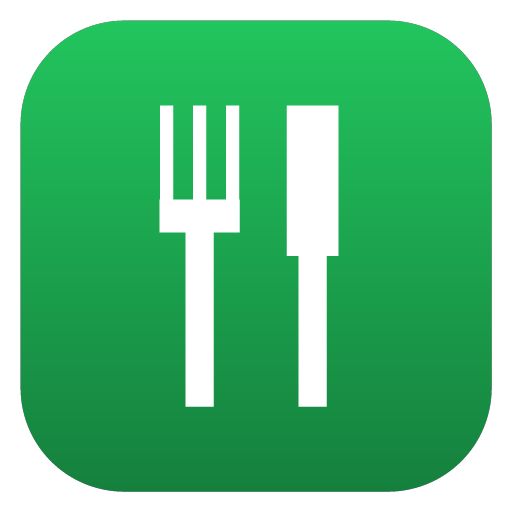
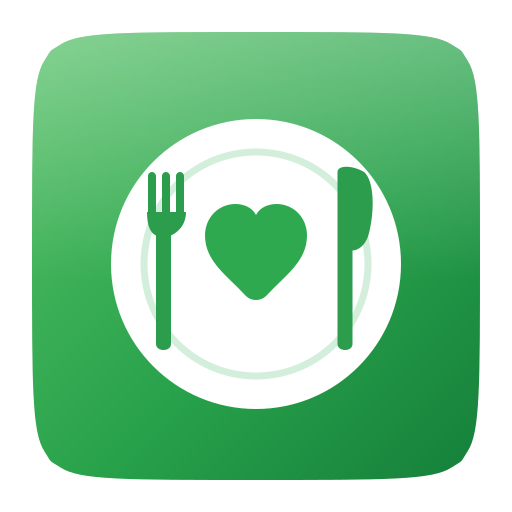
feat(pwa): adopte le jeu d'icônes fourni (assiette + cœur)
Remplace les icônes générées par le set de design fourni (assiette + cœur
sur dégradé vert) :

- pwa-192/512 + maskable 512 (ic_launcher_playstore), apple-touch-icon 180
- favicons navigateur : .svg, .ico, 16, 32 ; master vectoriel icon-master.svg
- theme_color aligné sur la marque : #28a24b
- supprime le générateur maison scripts/generate-pwa-icons.mjs (obsolète)
- met à jour le test d'assets, le README et le change OpenSpec

Refs: add-pwa-support

diff --git a/nuxt.config.ts b/nuxt.config.ts
@@ -71,7 +71,7 @@ export default defineNuxtConfig({
           content:
             "Gérez l'inventaire, les recettes, les menus et la liste de courses de votre foyer.",
         },
-        { name: 'theme-color', content: '#16a34a' },
+        { name: 'theme-color', content: '#28a24b' },
         { name: 'apple-mobile-web-app-capable', content: 'yes' },
         { name: 'mobile-web-app-capable', content: 'yes' },
         {
@@ -81,7 +81,20 @@ export default defineNuxtConfig({
         { name: 'apple-mobile-web-app-title', content: 'Meal Manager' },
       ],
       link: [
+        { rel: 'icon', href: '/favicon.ico', sizes: 'any' },
         { rel: 'icon', href: '/favicon.svg', type: 'image/svg+xml' },
+        {
+          rel: 'icon',
+          href: '/favicon-32.png',
+          type: 'image/png',
+          sizes: '32x32',
+        },
+        {
+          rel: 'icon',
+          href: '/favicon-16.png',
+          type: 'image/png',
+          sizes: '16x16',
+        },
         {
           rel: 'apple-touch-icon',
           href: '/apple-touch-icon-180x180.png',
@@ -104,7 +117,7 @@ export default defineNuxtConfig({
         "Gérez l'inventaire, les recettes, les menus et la liste de courses de votre foyer.",
       lang: 'fr-FR',
       dir: 'ltr',
-      theme_color: '#16a34a',
+      theme_color: '#28a24b',
       background_color: '#ffffff',
       display: 'standalone',
       orientation: 'portrait',
@@ -112,7 +125,6 @@ export default defineNuxtConfig({
       scope: '/',
       categories: ['food', 'lifestyle', 'productivity'],
       icons: [
-        { src: 'pwa-64x64.png', sizes: '64x64', type: 'image/png' },
         { src: 'pwa-192x192.png', sizes: '192x192', type: 'image/png' },
         { src: 'pwa-512x512.png', sizes: '512x512', type: 'image/png' },
         {

diff --git a/tests/integration/http/pwa-assets.test.ts b/tests/integration/http/pwa-assets.test.ts
@@ -17,13 +17,14 @@ function readPng(file: string): { width: number; height: number } {
 
 describe('PWA — jeu d’icônes installable', () => {
   // (fichier, taille attendue) — doit rester aligné avec `pwa.manifest.icons`
-  // dans nuxt.config.ts et `app.head` (apple-touch-icon).
+  // dans nuxt.config.ts et `app.head` (apple-touch-icon + favicons).
   const icons: Array<[string, number]> = [
-    ['pwa-64x64.png', 64],
     ['pwa-192x192.png', 192],
     ['pwa-512x512.png', 512],
     ['maskable-icon-512x512.png', 512],
     ['apple-touch-icon-180x180.png', 180],
+    ['favicon-32.png', 32],
+    ['favicon-16.png', 16],
   ]
 
   it.each(icons)('%s est un PNG carré valide aux bonnes dimensions', (file, size) => {
@@ -37,6 +38,10 @@ describe('PWA — jeu d’icônes installable', () => {
     const svg = readFileSync(resolve(publicDir, 'favicon.svg'), 'utf8')
     expect(svg).toMatch(/<svg[\s>]/)
     expect(svg).toMatch(/viewBox/)
+  })
+
+  it('fournit un favicon.ico (navigateurs legacy)', () => {
+    expect(existsSync(resolve(publicDir, 'favicon.ico'))).toBe(true)
   })
 
   it('expose une icône maskable 512×512 (masquage adaptatif Android)', () => {

diff --git a/openspec/changes/add-pwa-support/proposal.md b/openspec/changes/add-pwa-support/proposal.md
@@ -29,20 +29,21 @@ réseau au niveau navigation.
 ### 2. Web App Manifest
 
 Manifest généré : `name`, `short_name`, `description`, `lang: fr-FR`,
-`display: standalone`, `theme_color: #16a34a`, `background_color: #ffffff`,
-`start_url: /`, `scope: /`, et le jeu d'icônes (64/192/512 + maskable 512).
+`display: standalone`, `theme_color: #28a24b`, `background_color: #ffffff`,
+`start_url: /`, `scope: /`, et le jeu d'icônes (192/512 + maskable 512).
 
 ### 3. Jeu d'icônes + favicon
 
-Icônes PNG (fourchette + couteau, fond vert dégradé) générées **sans dépendance
-externe** par `scripts/generate-pwa-icons.mjs` (encodeur PNG pur Node — l'env de
-build n'a ni sharp ni imagemagick). Plus un `favicon.svg` vectoriel assorti et un
-`apple-touch-icon` 180×180.
+Jeu d'icônes fourni (asset géré) : assiette + cœur sur dégradé vert. Décliné en
+`pwa-192x192.png`, `pwa-512x512.png`, `maskable-icon-512x512.png`,
+`apple-touch-icon-180x180.png`, `favicon.svg`, `favicon.ico`, `favicon-16.png`,
+`favicon-32.png`. Master vectoriel conservé : `public/icon-master.svg`.
 
 ### 4. Meta head + injection du manifest
 
-Ajout dans `app.head` des metas `theme-color`, `description`, et des metas/lien
-Apple (`apple-touch-icon`, `apple-mobile-web-app-*`). Le lien
+Ajout dans `app.head` des metas `theme-color` (`#28a24b`), `description`, des
+liens favicon (`.ico`, `.svg`, 16/32) et des metas/lien Apple
+(`apple-touch-icon`, `apple-mobile-web-app-*`). Le lien
 `<link rel="manifest">` est injecté par le composant `<VitePwaManifest />` monté
 dans `app.vue` : en SPA le module retire tout lien manifest statique du head pour
 le gérer lui-même (évite les doublons).
@@ -79,9 +80,9 @@ fonctionnement déconnecté.
 ## Impact
 
 **Code créé :**
-- `scripts/generate-pwa-icons.mjs` (générateur d'icônes).
-- `public/pwa-64x64.png`, `pwa-192x192.png`, `pwa-512x512.png`,
-  `maskable-icon-512x512.png`, `apple-touch-icon-180x180.png`, `favicon.svg`.
+- Icônes `public/` : `pwa-192x192.png`, `pwa-512x512.png`,
+  `maskable-icon-512x512.png`, `apple-touch-icon-180x180.png`, `favicon.svg`,
+  `favicon.ico`, `favicon-16.png`, `favicon-32.png`, `icon-master.svg`.
 - `app/components/PwaPrompt.vue`.
 - `tests/integration/http/pwa-assets.test.ts`.
 

diff --git a/openspec/changes/add-pwa-support/design.md b/openspec/changes/add-pwa-support/design.md
@@ -49,22 +49,21 @@ que les navigateurs prennent en compte pour les critères d'installation. Les
 metas `theme-color` / Apple, elles, restent dans `app.head` (présentes dès le
 shell) car le module n'y touche pas.
 
-### D5 — Génération des icônes sans dépendance
+### D5 — Icônes : asset fourni plutôt que génération au build
 
-L'environnement de build n'a ni `sharp`, ni ImageMagick, ni `rsvg`. Plutôt que
-d'ajouter `@vite-pwa/assets-generator` (et ses dépendances natives),
-`scripts/generate-pwa-icons.mjs` encode des PNG RGBA en **pur Node** (`zlib` +
-CRC32) et dessine l'icône (fond vert dégradé + fourchette/couteau blancs) avec un
-supersampling 4× pour des bords lisses. Les PNG sont commités dans `public/` (pas
-de génération au build) ; le script reste rejouable pour régénérer/retoucher.
-L'icône **maskable** est rendue pleine (pas de coins arrondis, contenu dans la
-safe-zone ~80 %) pour le masquage Android adaptatif.
+Le jeu d'icônes (assiette + cœur sur dégradé vert) est un **asset de design
+fourni**, commité dans `public/` ; pas de génération au build (l'env n'a de toute
+façon ni `sharp`, ni ImageMagick, ni `rsvg`). Le master vectoriel
+`public/icon-master.svg` (identique à `favicon.svg`) est conservé pour régénérer
+les déclinaisons. L'icône **maskable** réutilise le rendu plein 512×512
+(`ic_launcher_playstore` du jeu fourni) : le contenu (assiette) tient dans la
+safe-zone, OK pour le masquage Android adaptatif.
 
-### D6 — `theme_color` vert `#16a34a`
+### D6 — `theme_color` vert `#28a24b`
 
-Aligné sur la couleur primaire par défaut de Nuxt UI (gamme `green`) utilisée
-dans l'app. Le `background_color` du splash est blanc `#ffffff` (fond clair de
-l'app).
+Repris du stop médian du dégradé de l'icône fournie (`#5BC46A → #28A24B →
+#127A38`), pour que la barre de statut / splash s'accordent à la marque. Le
+`background_color` du splash est blanc `#ffffff` (fond clair de l'app).
 
 ## Risques / limites
 

diff --git a/openspec/changes/add-pwa-support/tasks.md b/openspec/changes/add-pwa-support/tasks.md
@@ -9,11 +9,11 @@ Checklist d'implémentation du change `add-pwa-support`. Aucun code domaine touc
 - [x] 1.1 Ajouter `@vite-pwa/nuxt` en devDependency (`pnpm add -D`).
 - [x] 1.2 Enregistrer le module dans `nuxt.config.ts` (`modules`).
 
-## 2. Icônes
+## 2. Icônes (asset fourni)
 
-- [x] 2.1 Créer `scripts/generate-pwa-icons.mjs` (encodeur PNG pur Node, supersampling 4×).
-- [x] 2.2 Générer `public/pwa-64x64.png`, `pwa-192x192.png`, `pwa-512x512.png`, `maskable-icon-512x512.png` (safe-zone), `apple-touch-icon-180x180.png`.
-- [x] 2.3 Créer `public/favicon.svg` vectoriel assorti.
+- [x] 2.1 Installer le jeu d'icônes fourni dans `public/` : `pwa-192x192.png`, `pwa-512x512.png`, `maskable-icon-512x512.png`, `apple-touch-icon-180x180.png`.
+- [x] 2.2 Favicons navigateur : `favicon.svg`, `favicon.ico`, `favicon-16.png`, `favicon-32.png`.
+- [x] 2.3 Conserver le master vectoriel `public/icon-master.svg`.
 
 ## 3. Manifest & config PWA
 
@@ -23,7 +23,7 @@ Checklist d'implémentation du change `add-pwa-support`. Aucun code domaine touc
 
 ## 4. Head & injection du lien manifest
 
-- [x] 4.1 `app.head` : metas `description`, `theme-color`, `apple-mobile-web-app-*`, `mobile-web-app-capable` ; liens `icon` (favicon.svg) et `apple-touch-icon`.
+- [x] 4.1 `app.head` : metas `description`, `theme-color` (#28a24b), `apple-mobile-web-app-*`, `mobile-web-app-capable` ; liens favicon (`.ico`, `.svg`, 16/32) et `apple-touch-icon`.
 - [x] 4.2 Monter `<VitePwaManifest />` dans `app.vue` (injection client du lien manifest — le module retire les liens manifest statiques).
 
 ## 5. Affordances install / update

diff --git a/README.md b/README.md
@@ -83,7 +83,7 @@ Meal Manager est une **Progressive Web App** (module `@vite-pwa/nuxt`) :
 installable sur mobile/desktop (icône d'écran d'accueil, affichage `standalone`)
 avec un service worker qui précache le *shell* applicatif (JS/CSS/HTML/icônes).
 
-- **Manifest** : `/manifest.webmanifest` (généré au build). Thème vert `#16a34a`.
+- **Manifest** : `/manifest.webmanifest` (généré au build). Thème vert `#28a24b`.
 - **Service worker** : `registerType: 'autoUpdate'`. Une notification « Mise à jour
   disponible » invite l'utilisateur à recharger (pas de reload silencieux).
 - **Hors-ligne** : **shell uniquement**. Les appels `/api/*`, `/mcp` et
@@ -92,14 +92,13 @@ avec un service worker qui précache le *shell* applicatif (JS/CSS/HTML/icônes)
 - **Dev** : le SW est désactivé en `pnpm dev` (`devOptions.enabled: false`).
   Pour le tester : `pnpm build && pnpm preview`, puis DevTools → Application.
 
-### Régénérer les icônes
+### Icônes
 
-Les icônes (`public/pwa-*.png`, `maskable-icon-512x512.png`,
-`apple-touch-icon-180x180.png`) sont produites sans dépendance externe :
-
-```bash
-node scripts/generate-pwa-icons.mjs
-```
+Le jeu d'icônes (assiette + cœur, dégradé vert) est un asset géré :
+`public/pwa-192x192.png`, `pwa-512x512.png`, `maskable-icon-512x512.png`,
+`apple-touch-icon-180x180.png`, `favicon.{svg,ico}`, `favicon-{16,32}.png`. Le
+master vectoriel est `public/icon-master.svg` (≈ `favicon.svg`) — repartir de là
+pour régénérer/retoucher les déclinaisons.
 
 ## Lancer via Docker
 
